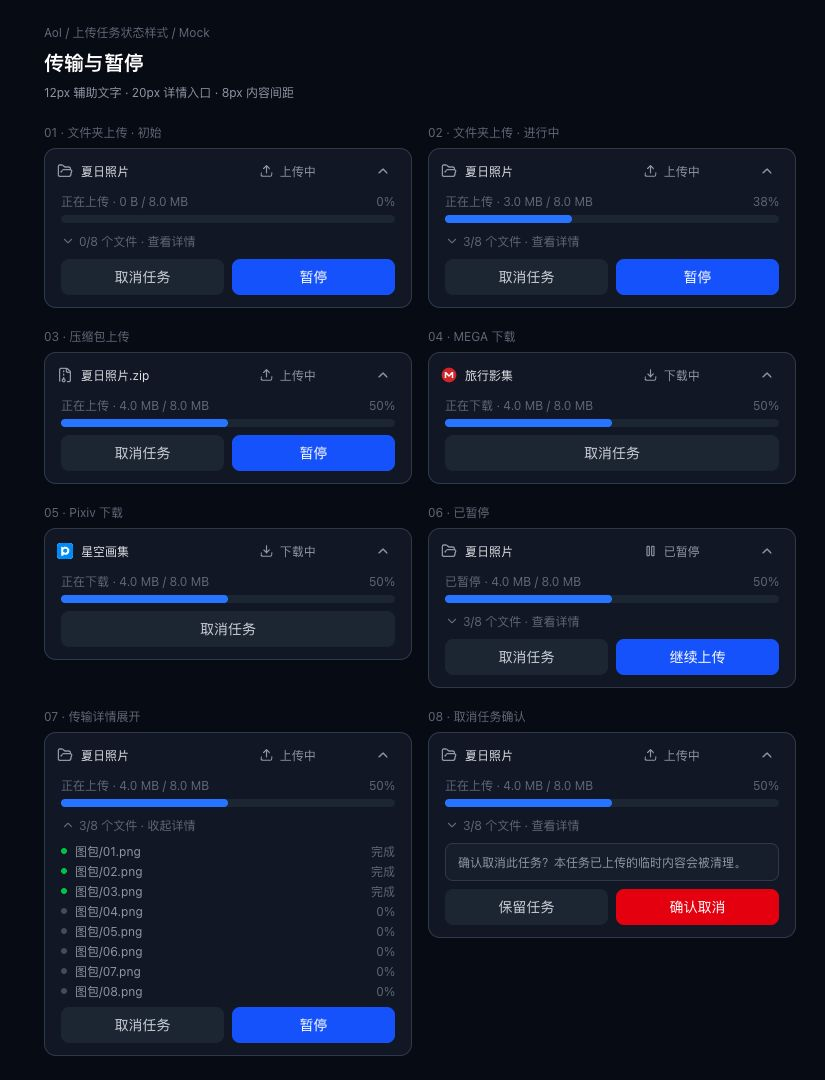
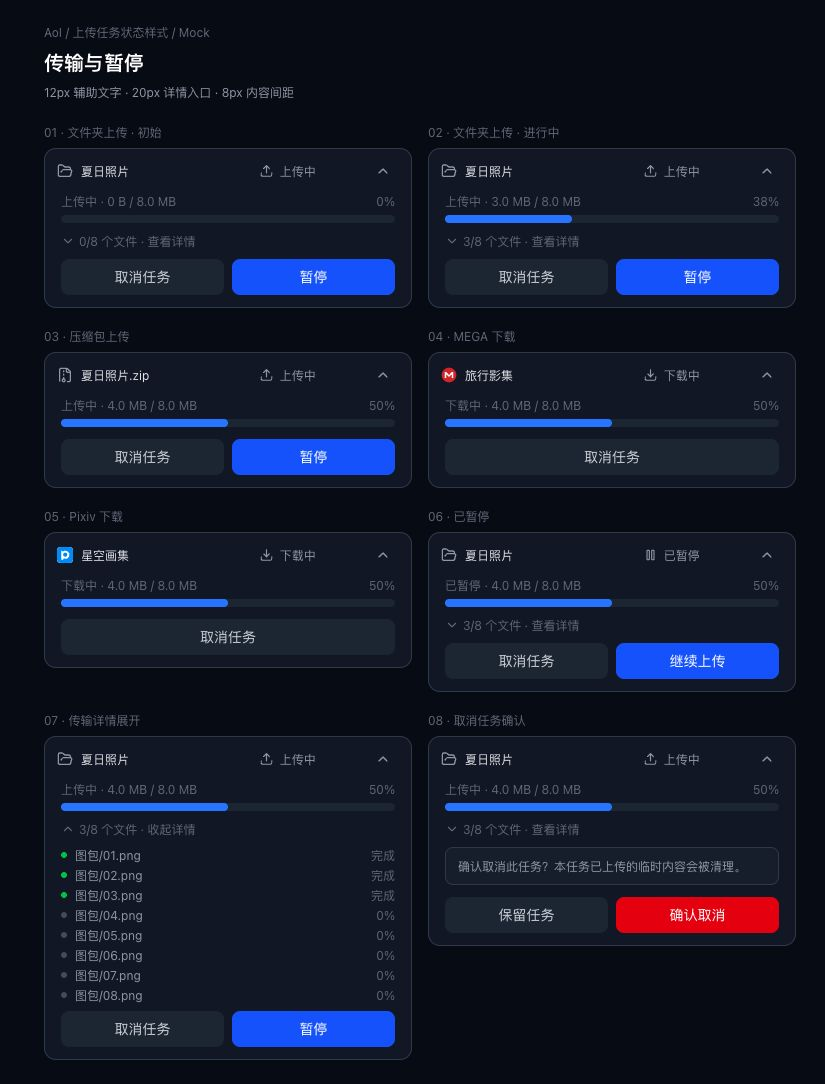
fix(client): refine task spacing and processing labels

diff --git a/client/src/pages/UploadPage.tsx b/client/src/pages/UploadPage.tsx
@@ -15,7 +15,7 @@ import PixivSettings from '../components/PixivSettings';
 import { ActionRow, Button, IconButton } from '../components/Button';
 import { TaskSourceTitle, TaskSummaryContent } from '../components/TaskSummary';
 import { taskNoticeMessage, taskProgressDisplay, taskStates, taskToneStyles } from '../lib/upload-task-display';
-import { TaskNotice, TaskTextAction } from '../components/TaskFeedback';
+import { TaskActionRow, TaskNotice, TaskTextAction } from '../components/TaskFeedback';
 import { getUploadScrollY, saveUploadScrollY, getHandledRevealRevision, setHandledRevealRevision, taskRevealDelta, scrollWithTaskExpansion } from '../lib/upload-page-state';
 
 const draftTitle = (source: UploadTask['source'] | null) => source === 'pixiv' ? 'Pixiv 导入'
@@ -212,7 +212,7 @@ function TaskCard({ task }: { task: UploadTask }) {
           {(task.status !== 'password' || task.passwordKind !== 'share') &&
             <PasswordInput value={archivePassword} onChange={setArchivePassword} placeholder="压缩包密码" />}
         </div>}
-        {state.content !== 'processing' && taskFiles.length > 1 && <div><TaskTextAction onClick={() => setDetails(!details)} aria-expanded={details} aria-controls={`task-files-${task.id}`}>
+        {state.content !== 'processing' && taskFiles.length > 1 && <div className={!error && !cancelConfirm ? '-mb-1' : undefined}><TaskTextAction onClick={() => setDetails(!details)} aria-expanded={details} aria-controls={`task-files-${task.id}`}>
           {details ? <ChevronUp size={14} aria-hidden="true" /> : <ChevronDown size={14} aria-hidden="true" />}{`${taskFiles.filter(file => file.status === 'uploaded').length}/${taskFiles.length} 个文件 · ${details ? '收起详情' : '查看详情'}`}</TaskTextAction>
           {details && <div id={`task-files-${task.id}`} className="mt-2 max-h-52 space-y-1 overflow-y-auto">{taskFiles.map(file => <div key={file.id} className="flex items-center gap-2 text-xs">
             <span className={`h-1.5 w-1.5 shrink-0 rounded-full ${file.status === 'uploaded' ? 'bg-green-500' : file.status === 'failed' ? 'bg-red-400' : file.status === 'uploading' ? 'bg-blue-500 animate-pulse' : 'bg-gray-600'}`} />
@@ -226,9 +226,9 @@ function TaskCard({ task }: { task: UploadTask }) {
         {error && <TaskNotice role="alert" tone={state.tone}>{error}</TaskNotice>}
         {cancelConfirm ? <>
           <TaskNotice tone="neutral">确认取消此任务？本任务已上传的临时内容会被清理。</TaskNotice>
-          <ActionRow><Button variant="secondary" disabled={busy} onClick={() => setCancelConfirm(false)}>保留任务</Button>
-            <Button variant="danger" disabled={busy} onClick={() => { void run(() => dismiss(task.id)); }}>确认取消</Button></ActionRow>
-        </> : <ActionRow>
+          <TaskActionRow><Button variant="secondary" disabled={busy} onClick={() => setCancelConfirm(false)}>保留任务</Button>
+            <Button variant="danger" disabled={busy} onClick={() => { void run(() => dismiss(task.id)); }}>确认取消</Button></TaskActionRow>
+        </> : <TaskActionRow>
             <Button variant="secondary" disabled={busy} onClick={() => setCancelConfirm(true)}>取消任务</Button>
             {task.status === 'duplicate' && <Button variant="primary" disabled={busy} onClick={() => { void run(() => continueTask(task.id)); }}>继续上传</Button>}
             {task.status === 'uploading' && hasFiles && <Button variant="primary" disabled={busy} onClick={() => { void run(() => pause(task.id)); }}>暂停</Button>}
@@ -236,8 +236,8 @@ function TaskCard({ task }: { task: UploadTask }) {
             {(task.status === 'needs_file' || (!hasFiles && !remote && task.status === 'failed' && !task.packId)) &&
               <Button variant="primary" disabled={busy} onClick={() => input.current?.click()}>{`重新选择${task.source === 'folder' ? '文件夹' : '压缩包'}`}</Button>}
             {(task.status === 'password' || task.status === 'failed') && (hasFiles || remote || task.packId) &&
-              <Button variant="primary" disabled={busy} onClick={() => { void run(() => resume(task.id, { archivePassword: archivePassword || undefined, sharePassword: sharePassword || undefined })); }}>{task.status === 'password' ? '提交密码并继续' : '重试'}</Button>}
-        </ActionRow>}
+              <Button variant="primary" disabled={busy} onClick={() => { void run(() => resume(task.id, { archivePassword: archivePassword || undefined, sharePassword: sharePassword || undefined })); }}>{task.status === 'password' ? '提交并继续' : '重试'}</Button>}
+        </TaskActionRow>}
         </>}
       </div></div>
     </div>

diff --git a/client/src/components/PackProcessingResult.tsx b/client/src/components/PackProcessingResult.tsx
@@ -1,11 +1,10 @@
 import { useEffect, useState } from 'react';
 import { useNavigate } from 'react-router-dom';
-import { ImageOff } from 'lucide-react';
 import type { PackThumbnail } from '../../../shared/types';
 import { fetchThumbnails } from '../api/packs';
 import { resourceUrl } from '../lib/connection';
-import { ActionRow, Button } from './Button';
-import { TaskNotice, TaskTextAction } from './TaskFeedback';
+import { Button } from './Button';
+import { TaskActionRow, TaskNotice } from './TaskFeedback';
 
 function PreviewSkeleton() {
   return <span aria-hidden="true" className="absolute inset-0 rounded-lg bg-gray-800 motion-safe:animate-pulse" />;
@@ -15,32 +14,27 @@ function ResultThumbnail({ item, busy, onOpen }: { item: PackThumbnail; busy: bo
   const [status, setStatus] = useState<'loading' | 'ready' | 'failed'>('loading');
   return <button type="button" disabled={busy} onClick={onOpen} aria-busy={status === 'loading'}
     className="relative aspect-square overflow-hidden rounded-lg bg-gray-800" aria-label={`预览 ${item.name}`}>
-    {status === 'loading' && <PreviewSkeleton />}
-    {status === 'failed' ? <span title="预览不可用" className="flex h-full items-center justify-center text-gray-500"><ImageOff size={18} aria-hidden="true" /><span className="sr-only">预览不可用</span></span>
-      : <img src={resourceUrl(item.thumbUrl)} crossOrigin="anonymous" alt={item.name}
+    {status !== 'ready' && <PreviewSkeleton />}
+    <img src={resourceUrl(item.thumbUrl)} crossOrigin="anonymous" alt={item.name}
         onLoad={() => setStatus('ready')} onError={() => setStatus('failed')}
-        className={`absolute inset-0 h-full w-full object-cover ${status === 'ready' ? 'opacity-100' : 'opacity-0'}`} />}
+        className={`absolute inset-0 h-full w-full object-cover ${status === 'ready' ? 'opacity-100' : 'opacity-0'}`} />
     {item.mediaType === 'ugoira' && status === 'ready' && <span className="absolute bottom-0 right-0 bg-black/70 px-1 text-xs text-white">动图</span>}
   </button>;
 }
 
 function ResultPreview({ packId, busy, onOpen }: { packId: string; busy: boolean; onOpen: () => void }) {
   const [preview, setPreview] = useState<{ status: 'loading' | 'ready' | 'failed'; items: PackThumbnail[] }>({ status: 'loading', items: [] });
-  const [revision, setRevision] = useState(0);
   useEffect(() => {
     let active = true;
     void fetchThumbnails(packId).then(items => {
       if (active) setPreview({ status: 'ready', items: items.slice(0, 6) });
     }).catch(() => { if (active) setPreview({ status: 'failed', items: [] }); });
     return () => { active = false; };
-  }, [packId, revision]);
-  if (preview.status === 'failed') return <TaskNotice tone="neutral">预览暂时无法加载。<TaskTextAction className="ml-2" onClick={() => {
-    setPreview({ status: 'loading', items: [] }); setRevision(value => value + 1);
-  }}>重试</TaskTextAction></TaskNotice>;
+  }, [packId]);
   if (preview.status === 'ready' && !preview.items.length) return <TaskNotice tone="neutral">此图包暂无可预览的图片。</TaskNotice>;
   return <div className="grid grid-cols-3 gap-2 sm:grid-cols-6" aria-label="图包预览" aria-busy={preview.status === 'loading'}>
-    {preview.status === 'loading' ? <>
-      <span role="status" className="sr-only">正在加载图包预览…</span>
+    {preview.status !== 'ready' ? <>
+      {preview.status === 'loading' && <span role="status" className="sr-only">正在加载图包预览…</span>}
       {Array.from({ length: 6 }, (_, index) => <div key={index} className="relative aspect-square"><PreviewSkeleton /></div>)}
     </> : preview.items.map(item => <ResultThumbnail key={`${item.name}:${item.thumbUrl}`} item={item} busy={busy} onOpen={onOpen} />)}
   </div>;
@@ -67,9 +61,9 @@ export default function PackProcessingResult({ packId, onDone }: {
   return <div className="flex flex-col gap-2" aria-label="图包处理结果">
     {packId && <ResultPreview key={packId} packId={packId} busy={busy} onOpen={() => { void finish(true); }} />}
     {error && <TaskNotice role="alert" tone="error">{error}</TaskNotice>}
-    <ActionRow>
+    <TaskActionRow>
       {packId && <Button variant="secondary" disabled={busy} onClick={() => { void finish(true); }}>查看图包</Button>}
       <Button variant="primary" disabled={busy} onClick={() => { void finish(); }}>完成</Button>
-    </ActionRow>
+    </TaskActionRow>
   </div>;
 }

diff --git a/server/test/upload-task-display.test.ts b/server/test/upload-task-display.test.ts
@@ -40,30 +40,46 @@ test('processing labels and counters replace finished transfer details for every
     const processing = { ...task, source, status: 'processing' as const, progress: 25,
       processing: { stage: 'verifying' as const, queued: false, completed: 1024, total: 4096 } };
     assert.deepEqual(taskProgressDisplay(processing), {
-      label: '正在校验与检测重复', detail: '已校验 1 KB / 4 KB', percentage: 25,
+      label: '校验中', detail: '已校验 1 KB / 4 KB', percentage: 25,
     });
     assert.deepEqual(taskProgressDisplay({ ...processing, progress: 50,
       processing: { stage: 'thumbnailing', queued: false, completed: 2, total: 4 } }), {
-      label: '正在生成预览', detail: '2 / 4 个文件', percentage: 50,
+      label: '生成预览中', detail: '2 / 4 个文件', percentage: 50,
     });
   }
 });
 
 test('queued and uncounted work never displays a fabricated zero percentage', () => {
   const processing = { ...task, status: 'processing' as const, progress: 0 };
-  assert.deepEqual(taskProgressDisplay(processing), { label: '正在准备处理' });
+  assert.deepEqual(taskProgressDisplay(processing), { label: '准备中' });
   assert.deepEqual(taskProgressDisplay({ ...processing, processing: {
     stage: 'extracting', queued: false, completed: 0, total: 0,
-  } }), { label: '正在解包' });
+  } }), { label: '解包中' });
   assert.deepEqual(taskProgressDisplay({ ...processing, processing: {
     stage: 'thumbnailing', queued: true, completed: 4, total: 4,
-  } }), { label: '等待生成预览' });
+  } }), { label: '生成预览中' });
   assert.deepEqual(taskProgressDisplay({ ...processing, processing: {
     stage: 'thumbnailing', queued: false, completed: 0, total: 4,
-  } }), { label: '正在生成预览', detail: '0 / 4 个文件', percentage: 0 });
+  } }), { label: '生成预览中', detail: '0 / 4 个文件', percentage: 0 });
   assert.deepEqual(taskProgressDisplay({ ...task, status: 'uploading', progress: 50, transferredBytes: 50 }), {
-    label: '正在上传', detail: '50 B / 100 B', percentage: 50,
+    label: '上传中', detail: '50 B / 100 B', percentage: 50,
   });
+});
+
+test('queued stages share concise labels without exposing stale counters', () => {
+  for (const stage of ['extracting', 'verifying', 'thumbnailing'] as const) {
+    const running = { ...task, status: 'processing' as const, progress: 50,
+      processing: { stage, queued: false, completed: 4, total: 8 } };
+    const queued = { ...running, processing: { ...running.processing, queued: true } };
+    const display = taskProgressDisplay(queued);
+    assert.equal(display.label, taskProgressDisplay(running).label);
+    assert.match(display.label, /中$/);
+    assert.ok(display.label.length <= 5);
+    assert.equal(display.percentage, undefined);
+    assert.equal(display.detail, undefined);
+    assert.equal(queued.processing.queued, true);
+    assert.equal(taskProgressDisplay(running).percentage, 50);
+  }
 });
 
 test('saved archive diagnostics become a concise error without local paths', () => {

diff --git a/client/src/lib/upload-task-display.ts b/client/src/lib/upload-task-display.ts
@@ -34,9 +34,10 @@ export function taskProgressDisplay(task: UploadTask): { label: string; detail?:
   const percentage = Number.isFinite(task.progress) ? Math.max(0, Math.min(100, Math.round(task.progress))) : undefined;
   if (task.status === 'processing') {
     const processing = task.processing;
-    if (!processing || processing.stage === 'preparing') return { label: '正在准备处理' };
-    const labels = { extracting: '解包', verifying: '校验与检测重复', thumbnailing: '生成预览' };
-    const label = `${processing.queued ? '等待' : '正在'}${labels[processing.stage]}`;
+    if (!processing || processing.stage === 'preparing') return { label: '准备中' };
+    const labels = { extracting: '解包中', verifying: '校验中', thumbnailing: '生成预览中' };
+    const label = labels[processing.stage];
+    // Queueing remains a real server state, but shares the stage's presentation.
     if (processing.queued || processing.total <= 0) return { label };
     const detail = processing.stage === 'verifying'
       ? `已校验 ${formatBytes(processing.completed)} / ${formatBytes(processing.total)}`
@@ -44,7 +45,7 @@ export function taskProgressDisplay(task: UploadTask): { label: string; detail?:
     return { label, detail, percentage };
   }
   return {
-    label: task.status === 'paused' ? '已暂停' : task.source === 'pixiv' || task.source === 'mega' ? '正在下载' : '正在上传',
+    label: task.status === 'paused' ? '已暂停' : task.source === 'pixiv' || task.source === 'mega' ? '下载中' : '上传中',
     detail: task.totalBytes > 0 ? `${formatBytes(task.transferredBytes)} / ${formatBytes(task.totalBytes)}` : undefined,
     percentage: task.totalBytes > 0 ? percentage : undefined,
   };

diff --git a/client/src/components/TaskFeedback.tsx b/client/src/components/TaskFeedback.tsx
@@ -1,5 +1,11 @@
 import type { ButtonHTMLAttributes, ReactNode } from 'react';
 import { taskToneStyles, type TaskTone } from '../lib/upload-task-display';
+import { ActionRow } from './Button';
+
+/** Add separation before the visible action surface, beyond the body's 8px gap. */
+export function TaskActionRow({ children }: { children: ReactNode }) {
+  return <ActionRow className="mt-1">{children}</ActionRow>;
+}
 
 /** Task body copy uses 12px type and an 8px rhythm; primary actions keep their normal size. */
 export function TaskNotice({ children, tone, role = 'status' }: { children: ReactNode; tone: TaskTone; role?: 'status' | 'alert' }) {

diff --git a/docs/screenshots/upload-states/README.md b/docs/screenshots/upload-states/README.md
@@ -1,13 +1,13 @@
 # Upload task state styles
 
-Captured on 2026-10-03 with the actual task card and result components, using isolated mock task/file data. These are style fixtures, not evidence of real transfers or remote imports. No test tasks or packs were added to the user's development service.
+Captured on 2026-10-04 with the actual task card and result components, using isolated mock task/file data. These are style fixtures, not evidence of real transfers or remote imports. No test tasks or packs were added to the user's development service.
 
 - [Transfer and pause](01-transfer.jpg): initial folder upload (0/8), partial upload, archive upload, MEGA/Pixiv download, pause, expanded file details, cancellation confirmation.
 - [Processing](02-processing.jpg): preparing, queued/running extraction, queued/running verification, queued/running preview generation.
 - [Attention and failure](03-attention.jpg): folder/archive reselection, archive/share passwords, incorrect password, duplicate confirmation, extraction/login/network/file upload failures.
-- [Results](04-results.jpg): loading thumbnail list, loading images, ready thumbnails, empty result, list failure, individual image failure. Loading fixtures are held in their respective states.
+- [Results](04-results.jpg): loading thumbnail list, loading images, ready thumbnails, empty result, list failure and individual image failure reusing the loading skeleton. Loading fixtures are held in their respective states; preview failures add no warning or retry action.
 - [Collapsed](05-collapsed.jpg): all nine task states.
 
-The shared state contract defines each status's label, tone and content mode. Task notices use 12px text with 8px vertical padding. The file disclosure uses 12px text and a 20px control height; task content uses 8px gaps. Main actions retain the normal button size.
+The shared state contract defines each status's label, tone and content mode. Task notices use 12px text with 8px vertical padding. The file disclosure uses 12px text and a 20px control height; task content uses 8px gaps. Main actions retain the normal button size. Their shared row adds 4px above the body gap (12px total); file-details blocks compensate by -4px to preserve their existing spacing. This aligns the space from progress bars to the next visible content, rather than to an invisible hit area. Password submission reads “提交并继续”. Queued and running stages share “准备中 / 解包中 / 校验中 / 生成预览中”; queued state and measured-progress rules are unchanged.
 
-Separate local verification of the built application held and released thumbnail API and image responses. At a 402px viewport, the six-thumbnail grid remained 211.328px high through list loading, image loading, and completion. All six skeletons persisted until their images loaded. `npm run check`: 127 passed, 0 failed, 0 skipped.
+Separate local verification of the built application held and released thumbnail API and image responses. At a 402px viewport, the six-thumbnail grid remained 211.328px high through list loading, image loading, and completion. All six skeletons persisted until their images loaded. `npm run check`: 128 passed, 0 failed, 0 skipped.
